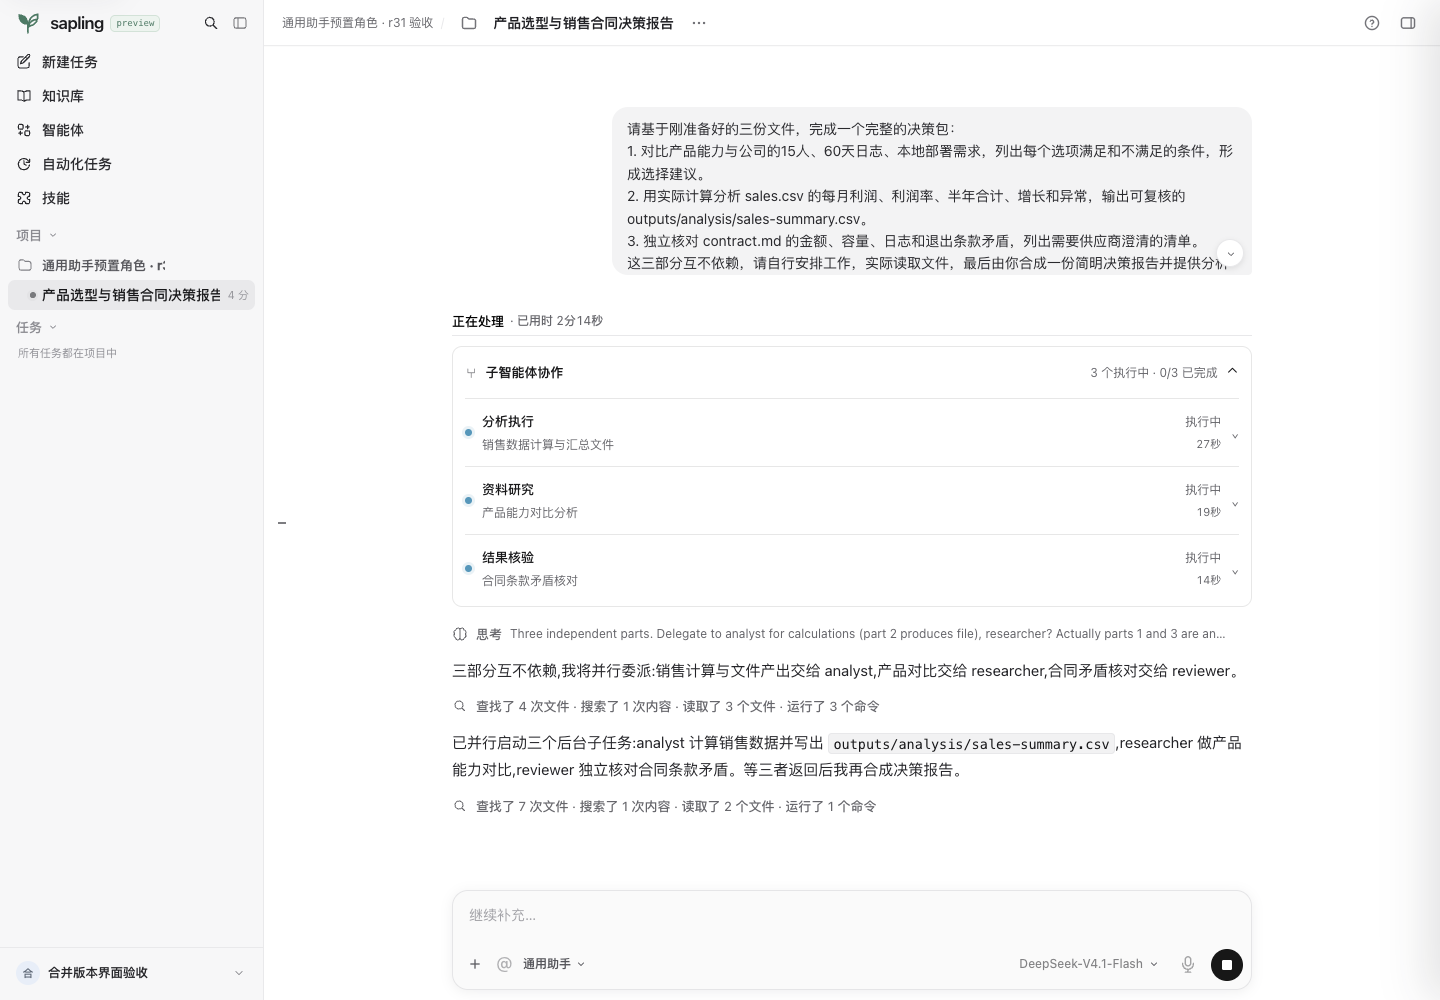
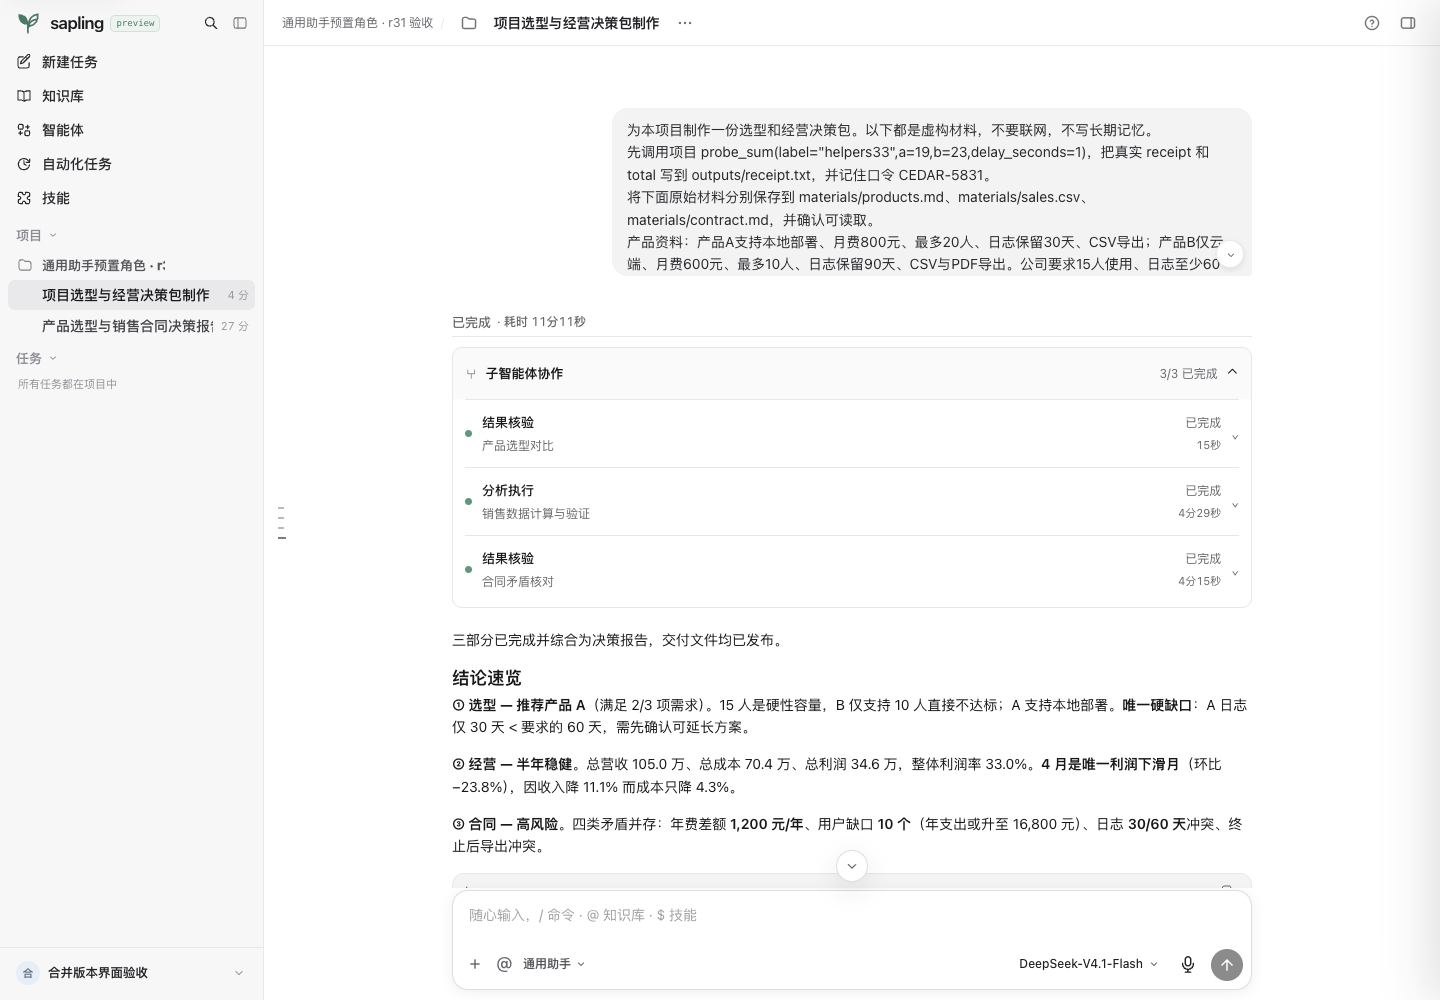
docs: record deployed helper concurrency and continuity verification

diff --git a/docs/general-helpers-174-20261020.md b/docs/general-helpers-174-20261020.md
@@ -16,7 +16,7 @@
 
 项目继续承载指令、文件、知识库、MCP 和成果。预置角色不会自动继承项目连接器和知识库凭据：由主助手按当前权限获取必要内容，传入委派材料或工作区文件。用户自建的专用协作关系仍在智能体空间配置和发布。
 
-已有会话保持原版本；刷新页面后新建通用助手任务即可使用新配置。
+已有会话保持原版本；刷新页面后新建通用助手任务即可使用新配置。目录通过 `platform_default` 明确标记服务端已安装的默认版本，前端优先使用它；各历史版本按稳定 `agent_id` 关联身份，兼容迁移遗留的同名身份，避免选回旧版本。
 
 工作材料使用 `materials/`，产物使用 `outputs/`。`inputs/` 属于平台每轮重新挂载的原始上传区，不用于生成跨轮工作材料。主助手委派前确认文件存在；子任务只进行一次有针对性的缺失文件查找，仍找不到则返回缺口。
 
@@ -30,18 +30,18 @@
 
 ## 部署范围
 
-- 功能源码：`ac118e73`；稳定身份兼容修复：`c0501e4f`；跨轮材料与查找边界：`4f313481`。
-- API / 3 Workers：`kai/projects-{api,worker}:helpers-20261020-r33`，增量基于已部署 SDK r30。
-- Web：`harbor.shdata.com:5000/agent-studio/amd64/agent-studio-web:helpers-20261020-r31`，3301 / 3501 使用同一镜像。
+- 功能源码：`ac118e73`；稳定身份兼容修复：`c0501e4f`；跨轮材料与查找边界：`4f313481`；默认入口与稳定身份修正：`3ebe3d64` / `2eab59ae`。
+- API / 3 Workers：`kai/projects-{api,worker}:helpers-20261020-r35`，增量基于已部署 SDK r30。
+- Web：`harbor.shdata.com:5000/agent-studio/amd64/agent-studio-web:helpers-20261020-r35`，3301 / 3501 使用同一镜像。
 - SDK 保持 `0.2.168`、CLI `2.1.301`。数据库保持 `0043`，无迁移。
 - 仅更新默认助手包、三个内部角色包、默认版本注册逻辑和 Web 展示。其他业务源码、运行配置和自建智能体未整体覆盖。
 - 切换前两次检查活跃 Run 为 0；首次检查发现其他任务仍运行，因此未切换，等待任务完成后才部署。
-- 预发布发现 `agent_versions.agent_id` 非空约束与初版无身份注册不兼容，已在切换前修复。失败候选 r31 后端未上线；稳定身份修复在 r32 验证，最终后端采用 r33。
+- 预发布发现 `agent_versions.agent_id` 非空约束与初版无身份注册不兼容，已在切换前修复。失败候选 r31 后端未上线；稳定身份修复在 r32 验证，最终后端采用 r35。
 
 ## 本地验证
 
-- 后端默认发布、用户隔离、依赖顺序、幂等和内部子智能体相关测试：19 passed。
-- 前端活动流、视图归并、折叠、计时、历史展示、取消状态和子任务交互：68 passed。
+- 最终后端回归（默认发布、用户隔离、依赖顺序、幂等、版本目录和内部子智能体 API）：26 passed；此前参考包验证亦通过。
+- 前端活动流、视图归并、折叠、计时、历史展示、取消状态和子任务交互：68 passed；默认任务目录另有 18 passed。
 - TypeScript、修改的 Python 文件 Pyright、Ruff、`git diff --check` 通过。
 - Web 生产构建通过。
 
@@ -49,13 +49,27 @@
 
 验收使用隔离 QA 身份与虚构材料。
 
-中间测试 `run_cd53ec479a6b4449924265a26f236c6d` 已确认自动启动三个角色，但测试文件误写到临时 `inputs/` 后跨轮缺失，因此主动取消，不计为完整任务通过。该测试促成上述材料与查找规则补充；最终使用 r33 重新进行端到端验收。
+中间测试 `run_cd53ec479a6b4449924265a26f236c6d` 已确认自动启动三个角色，但测试文件误写到临时 `inputs/` 后跨轮缺失，因此主动取消，不计为完整任务通过。该测试促成上述材料与查找规则补充；修正后重新进行端到端验收。连续对话测试最初写“不要调用 MCP”，与沙箱读取本身经 MCP 实现存在歧义；随后明确禁止重复调用项目算术连接器、允许读取文件，实际读取成功。
 
-最终结果与证据在完成实测后补充。
+最终验证：
+
+- 主任务 `run_59a1d83e9a714618b6d50f61e9f2f8db` 成功。提示词只要求完成三项互不依赖的工作，没有指定并行或角色；助手自行委派三个任务（两个 reviewer、一个 analyst），全部返回并由主助手汇总。并不要求每次用完三个不同角色。
+- 三任务开始时间分别为 02:40:46.503、02:40:48.813、02:40:51.647 UTC；三者执行区间重叠 **9.754 秒**。子任务工具事件均归属各自 task_id。
+- 项目 MCP `probe_sum(19, 23)` 返回 42 与随机回执 `SDK174-f76428c90962`。仅主助手调用项目连接器，子角色未继承该 MCP。
+- `sales-summary.csv` 实际下载后 SHA-256 与元数据一致；独立检查逐月利润、收入减成本、半年合计：收入 1,050,000，利润 346,000。回执文件同样下载核对。
+- API / Workers 两次重启后，后续 Run `run_927cb4cc2e9e4572b26b5ead3a1ac56b` 仍在同一个平台 Session，正确回忆口令、回执和金额，并实际读取原 CSV；未重新调用算术连接器。
+- 项目指令标记在主任务与后续回答均保留。三个内部角色不在 `/v1/agents` 普通目录内，也没有 Studio 草稿。
+- 测试实际采用当前配置的 `shdata-model` 路由；该结果不等同于所有模型都已通过或总会选择相同分工。
+- 实时协作区和历史回放、整体折叠、子任务详情、390 px 手机无横向溢出均做浏览器检查；实际点击新建任务后默认版本为 `1.1.1+platform.99dfe677`。
+- 验收项目和两段对话已归档，临时 MCP 引用已停用，测试浏览器会话已撤销；临时 MCP 与预发布 API / Web 容器已删除。历史 Run 与产物留存审计。最终 API、3 Workers、3301 / 3501 Web 共 6 个容器健康，restart=0，活跃 Run=0。
+
+[机器可核对的验收证据](results/general-helpers-174-20261020.json) · [桌面协作展示](results/general-helpers-174-desktop.png) · [子任务详情](results/general-helpers-174-details.png) · [手机展示](results/general-helpers-174-mobile.png)
+
+主任务在 r33 执行；最终 r35 保留相同助手包和执行运行时，增加默认入口与身份投影修正，后续连续对话在 r35 执行。全部镜像与回滚记录保留在服务器发布目录。
 
 ## 回滚
 
-服务器发布记录：`/data/agent-studio/releases/helpers-20261020-r33`（Web 切换记录位于 r32 目录）。
+服务器发布记录：`/data/agent-studio/releases/helpers-20261020-r35`（含 API / Worker / Web 切换记录）。
 
 排空 Run 后将 API / Worker / migrate 镜像恢复为 `kai/projects-{api,worker}:sdk-20261020-r30`，Web 恢复 `projects-20261019-r26`。3501 旧容器保留为 `axis-web-projects-20261019-r26-rollback-helpers-20261020-r31`。配置备份只用于核对；如果后来有其他发布，不要整份覆盖配置。
 
